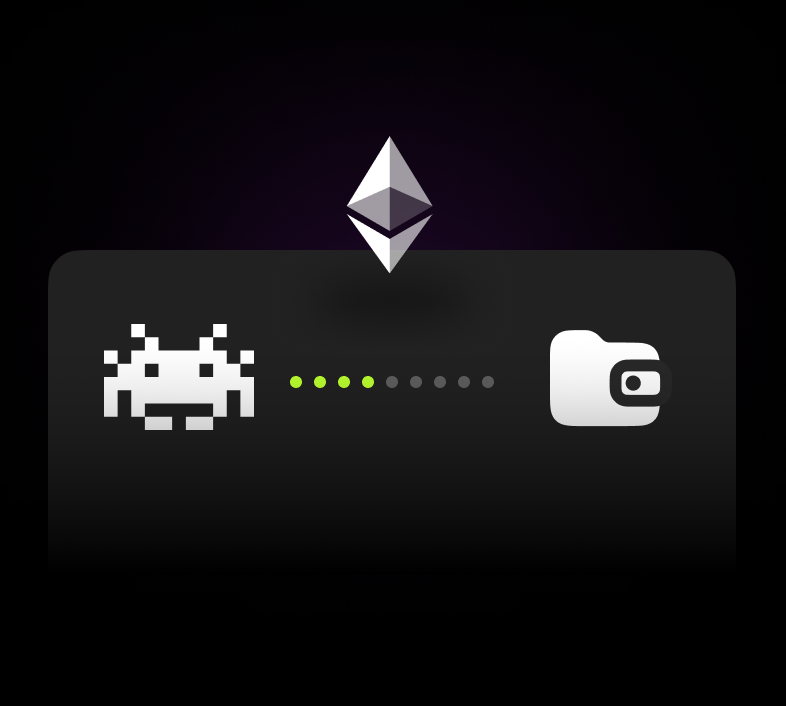
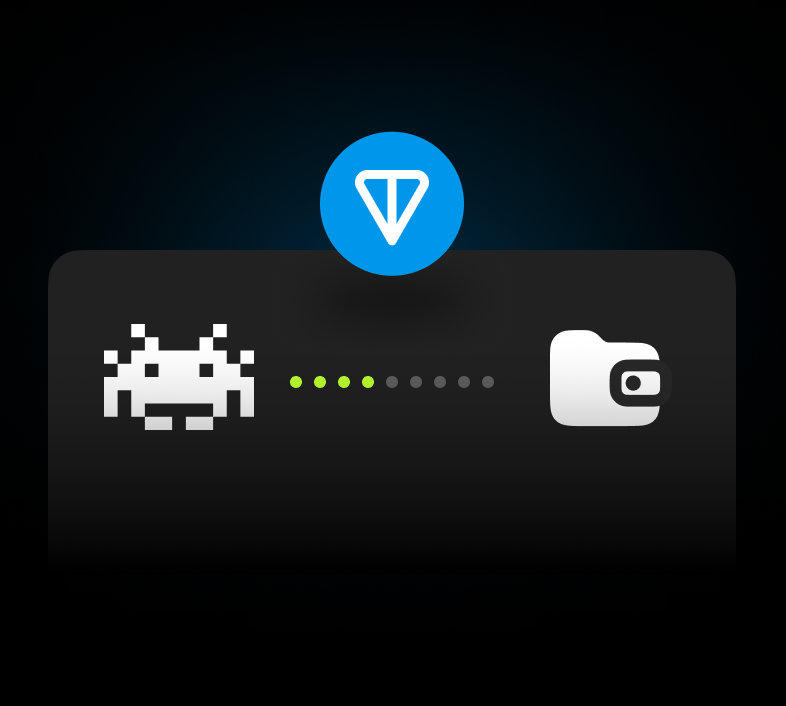
TonConnect integration

Changed region(s): [[0.3969, 0.187, 0.6107, 0.4051]]

diff --git a/src/pages/home/Home.jsx b/src/pages/home/Home.jsx
@@ -33,7 +33,7 @@ const Header = () => {
       components.toast.showText('Wallet address copied to clipboard')
     } catch (err) {
       console.error(err)
-      components.toast.showText('Error on connect metamask wallet')
+      components.toast.showText('Error on connect TON wallet')
     }
   }
 
@@ -43,7 +43,7 @@ const Header = () => {
       components.toast.showText('Metasmask wallet disconnected')
     } catch (err) {
       console.error(err)
-      components.toast.showText('Error on disconnect metamask wallet')
+      components.toast.showText('Error on disconnect TON wallet')
     }
   }
 
@@ -167,9 +167,8 @@ const ModalRewardCard = ({
     <div
       className="_fCC"
       style={{
-        background: '#171717',
-        minWidth: '28px',
-        height: '28px',
+        minWidth: '32px',
+        height: '32px',
         borderRadius: '50%',
         ...iconBoxStyle,
       }}
@@ -235,7 +234,7 @@ const ModalRewardContent = ({onClickClose}) => {
       />
       <components.animations.HaxIdle style={{width: '200px', height: '180px'}}/>
       <h2 className="_g7003041" style={{margin: '34px auto 3px'}}>
-                Your reward:
+        Your reward:
       </h2>
       <div className="_fCC" style={{marginBottom: '50px'}}>
         <components.svg.Polygon width={46} height={46}/>
@@ -243,16 +242,15 @@ const ModalRewardContent = ({onClickClose}) => {
         <p className="_w7004641">{rewardAmount} HAX</p>
       </div>
       <ModalRewardCard
-        icon={<components.svg.Eth width={11.25} height={18}/>}
-        leftTitle="ETH balance"
+        icon={<components.svg.Ton width={32} height={32}/>}
+        leftTitle="TON balance"
         leftText={homePage?.forRegisterBody?.balance?.slice(0, 9)}
         priceStr={lib.formatPxlInt(
           homePage?.registerData?.rewardForBalance ?? 0,
         )}
       />
       <ModalRewardCard
-        icon={<components.svg.Arrows width={28} height={28}/>}
-        iconBoxStyle={{background: '#A2A2A2'}}
+        icon={<components.svg.Arrows width={32} height={32}/>}
         leftTitle="Transaction count"
         leftText={homePage?.forRegisterBody?.txCount ?? 0}
         priceStr={lib.formatPxlInt(
@@ -300,7 +298,7 @@ const WalletConnect = () => {
       } catch (err) {
         console.error(err)
         components.toast.showText(
-          'Error on connect metamask wallet. Please contact support',
+          'Error on connect TON wallet. Please contact support',
         )
       }
     }
@@ -617,7 +615,7 @@ const ModalOnboardingContent = ({onClickGotIt}) => {
   )
 
   return (
-    <div className={styles.modal_onboarding__wrapper}>
+    <>
       <div className={classnames('_fCC', styles.modal_onboarding__indicators)}>
         {
           Array.from({length: 5}, (_, i) => (
@@ -646,10 +644,9 @@ const ModalOnboardingContent = ({onClickGotIt}) => {
           title="Connect your wallet"
           content={(
             <p>
-                            Connect your Metamask wallet on Ethereum to get your <Word bold={true}>⬢HAX</Word> token
-                            reward.
-                            If you don&apos;t have Metamask, download it from the <Word colored={true}>Apple
-                            Store</Word> or <Word colored={true}>Play Market</Word>.
+              Connect your <Word colored={true}>TON Wallet</Word> to
+              get your <Word bold={true} colored={true}>⬢HAX</Word> token reward.
+              Show your love for TON!
             </p>
           )}
           buttonText="Yeah"
@@ -661,7 +658,7 @@ const ModalOnboardingContent = ({onClickGotIt}) => {
           title="Quests"
           content={(
             <p>
-                            Complete tasks and unlock extra <Word bold={true} colored={true}>⬢HAX</Word> rewards.
+              Complete tasks and unlock extra <Word bold={true} colored={true}>⬢HAX</Word> rewards.
             </p>
           )}
           buttonText="Got it!"
@@ -673,9 +670,9 @@ const ModalOnboardingContent = ({onClickGotIt}) => {
           title="Friends"
           content={(
             <p>
-                            Earn <Word colored={true}>10%</Word> from your invitees&apos; MetaMask
-                            connections and <Word colored={true}>5%</Word> from their spins
-                            and quests. Claim your rewards every 24 hours.
+              Earn <Word colored={true}>10%</Word> from your invitees&apos; TON Wallet
+              connections and <Word colored={true}>5%</Word> from their spins
+              and quests. Claim your rewards every 24 hours.
             </p>
           )}
           buttonText="Cool"
@@ -687,9 +684,9 @@ const ModalOnboardingContent = ({onClickGotIt}) => {
           title="Leaderboard"
           content={(
             <p>
-                            Track your <Word colored={true}>progress</Word> on the leaderboard
-                            and compete with other <Word bold={true}>⬢HAX</Word> holders
-                            for top rewards.
+              Track your <Word colored={true}>progress</Word> on the leaderboard
+              and compete with other <Word bold={true}>⬢HAX</Word> holders
+              for top rewards.
             </p>
           )}
           buttonText="Cool"
@@ -701,10 +698,9 @@ const ModalOnboardingContent = ({onClickGotIt}) => {
           title="Spin"
           content={(
             <p>
-                            Earn <Word bold={true} colored={true}>⬢HAX</Word> by <Word
-                colored={true}>spinning</Word> with a key every
-                            6 hours. Don&apos;t forget to log in to <Word colored={true}>claim</Word> your <Word
-                color="#EABB1C">🔑 Key</Word> on time!
+              Earn <Word bold={true} colored={true}>⬢HAX</Word> by <Word colored={true}>spinning</Word> with
+              a key every 6 hours. Don&apos;t forget to log in
+              to <Word colored={true}>claim</Word> your <Word color="#EABB1C">🔑 Key</Word> on time!
             </p>
           )}
           buttonText="LET ME SPIN!"
@@ -712,7 +708,7 @@ const ModalOnboardingContent = ({onClickGotIt}) => {
           onButtonClick={onClickGotIt}
         />
       </Carousel>
-    </div>
+    </>
   )
 }
 
@@ -753,6 +749,7 @@ export const Home = () => {
         </div>
         <Modal
           isOpen={homePage.isOpenRewardModal}
+          overlayClassName="adjusted-react-modal-overlay"
           className="adjusted-react-modal"
         >
           <ModalRewardContent
@@ -761,7 +758,11 @@ export const Home = () => {
             }
           />
         </Modal>
-        <Modal isOpen={renderOnboardingModal} className="adjusted-react-modal">
+        <Modal
+          isOpen={renderOnboardingModal}
+          overlayClassName="adjusted-react-modal-overlay"
+          className="adjusted-react-modal"
+        >
           <ModalOnboardingContent
             onClickGotIt={() => dispatch(slices.homePageSlice.thunks.closeOnboardingModal())}
           />

diff --git a/src/components/svg.jsx b/src/components/svg.jsx
@@ -2884,11 +2884,11 @@ export const Person = ({ width, height }) => (
   </svg>
 )
 
-export const Eth = ({ width, height }) => (
+export const Ton = ({ width, height}) => (
   <svg
-    width="12"
-    height="18"
-    viewBox="0 0 12 18"
+    width="32"
+    height="32"
+    viewBox="0 0 32 32"
     fill="none"
     xmlns="http://www.w3.org/2000/svg"
     style={{
@@ -2896,36 +2896,24 @@ export const Eth = ({ width, height }) => (
       ...(height ? { height: `${height}px` } : {}),
     }}
   >
+    <circle cx="16" cy="16" r="11" fill="white"/>
+    <path fillRule="evenodd" clipRule="evenodd"
+      d="M30 16C30 23.732 23.732 30 16 30C8.26801 30 2 23.732 2 16C2 8.26801 8.26801 2 16 2C23.732 2 30 8.26801 30 16ZM12.8895 9.70108C13.2767 9.30725 13.2713 8.67411 12.8775 8.28692C12.4836 7.89972 11.8505 7.9051 11.4633 8.29892L8.28692 11.5297C7.90436 11.9188 7.90436 12.5427 8.28692 12.9318L11.4633 16.1626C11.8505 16.5564 12.4836 16.5618 12.8775 16.1746C13.2713 15.7874 13.2767 15.1543 12.8895 14.7605L11.3855 13.2308L18 13.2308C18.5523 13.2308 19 12.7831 19 12.2308C19 11.6785 18.5523 11.2308 18 11.2308H11.3855L12.8895 9.70108ZM20.5367 15.8374C20.1495 15.4436 19.5164 15.4382 19.1225 15.8254C18.7287 16.2126 18.7233 16.8457 19.1105 17.2395L20.6145 18.7692L14 18.7692C13.4477 18.7692 13 19.2169 13 19.7692C13 20.3215 13.4477 20.7692 14 20.7692L20.6145 20.7692L19.1105 22.2989C18.7233 22.6927 18.7287 23.3259 19.1225 23.7131C19.5164 24.1003 20.1495 24.0949 20.5367 23.7011L23.7131 20.4703C24.0956 20.0812 24.0956 19.4573 23.7131 19.0682L20.5367 15.8374Z"
+      fill="#717171"/>
+    <path fillRule="evenodd" clipRule="evenodd"
+      d="M30 16C30 23.732 23.732 30 16 30C8.26801 30 2 23.732 2 16C2 8.26801 8.26801 2 16 2C23.732 2 30 8.26801 30 16Z"
+      fill="#282828"/>
     <path
-      d="M5.62451 0V6.65389L11.2484 9.16691L5.62451 0Z"
-      fill="white"
-      fillOpacity="0.602"
-    />
-    <path d="M5.62467 0L0 9.16691L5.62467 6.65389V0Z" fill="white"/>
-    <path
-      d="M5.62451 13.4788V18L11.2522 10.2141L5.62451 13.4788Z"
-      fill="white"
-      fillOpacity="0.602"
-    />
-    <path d="M5.62467 18V13.478L0 10.2141L5.62467 18Z" fill="white"/>
-    <path
-      d="M5.62451 12.4324L11.2484 9.16692L5.62451 6.6554V12.4324Z"
-      fill="white"
-      fillOpacity="0.2"
-    />
-    <path
-      d="M0 9.16692L5.62467 12.4324V6.6554L0 9.16692Z"
-      fill="white"
-      fillOpacity="0.602"
-    />
+      d="M15.9527 23L21.8998 12.6802C22.4719 11.6873 21.7553 10.4473 20.6094 10.4473H15.9527M15.9527 23V10.4473M15.9527 23L10.0057 12.6802C9.43357 11.6873 10.1502 10.4473 11.2961 10.4473H15.9527"
+      stroke="#A2A2A2" strokeWidth="1.70207" strokeLinejoin="round"/>
   </svg>
 )
 
 export const Arrows = ({ width, height }) => (
   <svg
-    width="28"
-    height="28"
-    viewBox="0 0 28 28"
+    width="32"
+    height="32"
+    viewBox="0 0 32 32"
     fill="none"
     xmlns="http://www.w3.org/2000/svg"
     style={{
@@ -2933,11 +2921,10 @@ export const Arrows = ({ width, height }) => (
       ...(height ? { height: `${height}px` } : {}),
     }}
   >
-    <path
-      fillRule="evenodd"
-      clipRule="evenodd"
-      d="M28 14C28 21.732 21.732 28 14 28C6.26801 28 0 21.732 0 14C0 6.26801 6.26801 0 14 0C21.732 0 28 6.26801 28 14ZM10.8895 7.70108C11.2767 7.30725 11.2713 6.67411 10.8775 6.28692C10.4836 5.89972 9.85049 5.9051 9.46329 6.29892L6.28692 9.52969C5.90436 9.9188 5.90436 10.5427 6.28692 10.9318L9.46329 14.1626C9.85049 14.5564 10.4836 14.5618 10.8775 14.1746C11.2713 13.7874 11.2767 13.1543 10.8895 12.7605L9.38552 11.2308L16 11.2308C16.5523 11.2308 17 10.7831 17 10.2308C17 9.67848 16.5523 9.23077 16 9.23077H9.38552L10.8895 7.70108ZM18.5367 13.8374C18.1495 13.4436 17.5164 13.4382 17.1225 13.8254C16.7287 14.2126 16.7233 14.8457 17.1105 15.2395L18.6145 16.7692L12 16.7692C11.4477 16.7692 11 17.2169 11 17.7692C11 18.3215 11.4477 18.7692 12 18.7692L18.6145 18.7692L17.1105 20.2989C16.7233 20.6927 16.7287 21.3259 17.1225 21.7131C17.5164 22.1003 18.1495 22.0949 18.5367 21.7011L21.7131 18.4703C22.0956 18.0812 22.0956 17.4573 21.7131 17.0682L18.5367 13.8374Z"
-      fill="#171717"
+    <circle cx="16" cy="16" r="11" fill="#A2A2A2"/>
+    <path fillRule="evenodd" clipRule="evenodd"
+      d="M30 16C30 23.732 23.732 30 16 30C8.26801 30 2 23.732 2 16C2 8.26801 8.26801 2 16 2C23.732 2 30 8.26801 30 16ZM12.8895 9.70108C13.2767 9.30725 13.2713 8.67411 12.8775 8.28692C12.4836 7.89972 11.8505 7.9051 11.4633 8.29892L8.28692 11.5297C7.90436 11.9188 7.90436 12.5427 8.28692 12.9318L11.4633 16.1626C11.8505 16.5564 12.4836 16.5618 12.8775 16.1746C13.2713 15.7874 13.2767 15.1543 12.8895 14.7605L11.3855 13.2308L18 13.2308C18.5523 13.2308 19 12.7831 19 12.2308C19 11.6785 18.5523 11.2308 18 11.2308H11.3855L12.8895 9.70108ZM20.5367 15.8374C20.1495 15.4436 19.5164 15.4382 19.1225 15.8254C18.7287 16.2126 18.7233 16.8457 19.1105 17.2395L20.6145 18.7692L14 18.7692C13.4477 18.7692 13 19.2169 13 19.7692C13 20.3215 13.4477 20.7692 14 20.7692L20.6145 20.7692L19.1105 22.2989C18.7233 22.6927 18.7287 23.3259 19.1225 23.7131C19.5164 24.1003 20.1495 24.0949 20.5367 23.7011L23.7131 20.4703C24.0956 20.0812 24.0956 19.4573 23.7131 19.0682L20.5367 15.8374Z"
+      fill="#282828"
     />
   </svg>
 )

diff --git a/src/index.sass b/src/index.sass
@@ -398,13 +398,21 @@ video::-webkit-media-controls-start-playback-button
 
 .adjusted-react-modal
 	width: 100vw
-	height: 100vh
+	height: calc(100vh + 1px)
 	top: 0!important
 	left: 0!important
 	padding: 0!important
 	transform: none!important
 	border: none!important
 	border-radius: 0!important
+	&-overlay
+		position: fixed
+		inset: 0
+		background-color: #000
+		height: 100vh
+		width: 100vw
+		overflow-x: hidden
+		overflow-y: scroll
 
 .toast_container__box_global
 	.Toastify__toast

diff --git a/src/pages/home/Home.module.sass b/src/pages/home/Home.module.sass
@@ -147,11 +147,6 @@
 		background: #BCFF2F
 		border-radius: 10px
 .modal_onboarding
-	&__wrapper
-		overflow-x: hidden
-		overflow-y: auto
-		height: 100vh
-		width: 100vw
 	&__indicators
 		position: absolute
 		top: 20px
@@ -170,7 +165,7 @@
 			background: #fff
 	&__slide
 		user-select: none
-		height: calc(100vh + 1px)
+		height: 100vh
 		width: 100vw
 		text-align: left
 		overflow: visible
